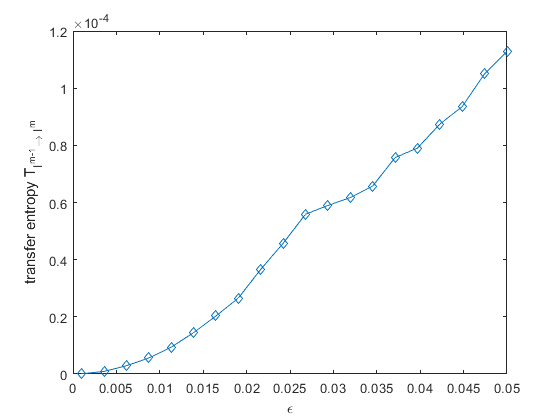
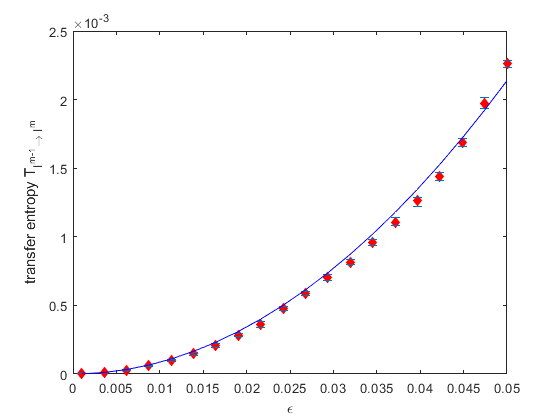
updated some stuff

diff --git a/generate_tent_map_data.m b/generate_tent_map_data.m
@@ -14,22 +14,23 @@ for i=1:length(eps)
     for k=1:10 %take the average of 10 runs
         x_series = tent_map(M, N, eps(i));
         [trans_probs, conditional_probs_2, conditional_probs_1, transition_tuple] = trans_probability(x_series(1e5+1:2e5, :), 1e5, M);
-        temp(i) = tent_map_entropy(trans_probs, conditional_probs_2, conditional_probs_1);
+        temp(k) = tent_map_entropy(trans_probs, conditional_probs_2, conditional_probs_1);
     end
     trans_entropy(i) = mean(temp);
     error(1,i) = mean(temp) - min(temp);
     error(2,i) = max(temp) - mean(temp);
 end
 
-%errorbar(eps, trans_entropy, error(1,:), error(2,:), 'd',...
-%    'MarkerEdgeColor', 'red', 'MarkerFaceColor', 'red')
-%hold on;
-plot(eps, trans_entropy, '-d'); %mean 
+errorbar(eps, trans_entropy, error(1,:), error(2,:), 'd',...
+   'MarkerEdgeColor', 'red', 'MarkerFaceColor', 'red')
+hold on;
+plot(eps, 0.77^2*eps.^2./log(2), '-b'); 
 xlabel('\epsilon')
 ylabel('transfer entropy T_{I^{m-1}\rightarrow I^m}')
+legend('error bars', 'theoretical line')
 figure()
-plot(eps, trans_entropy./(eps.^2), '-g')
-xlabel('\epsilon')
-ylabel('T_{I^{m-1}\rightarrow I^m}/\epsilon^2')
+plot(eps.^2, trans_entropy, '-g')
+xlabel('\epsilon^2')
+ylabel('T_{I^{m-1}\rightarrow I^m}')
 
 

diff --git a/tent_map_simple_tests.m b/tent_map_simple_tests.m
@@ -1,0 +1,16 @@
+clear all; format long; format compact;
+
+%this is generating tent map with different epsilon values
+M=100; N=100;
+eps = linspace(0, 0.1, 4);
+x1 = tent_map(M, N, eps(1));
+x2 = tent_map(M, N, eps(2));
+plot(1:N, x1(:, 40))
+xlabel('n')
+ylabel('x_n^40')
+
+figure();
+plot(1:N, x2(:, 40))
+xlabel('n')
+ylabel('x_n^40')
+

diff --git a/tent_map.m b/tent_map.m
@@ -20,3 +20,5 @@ function [x_series] = tent_map(M, N, eps)
         end
     end
 end
+
+
